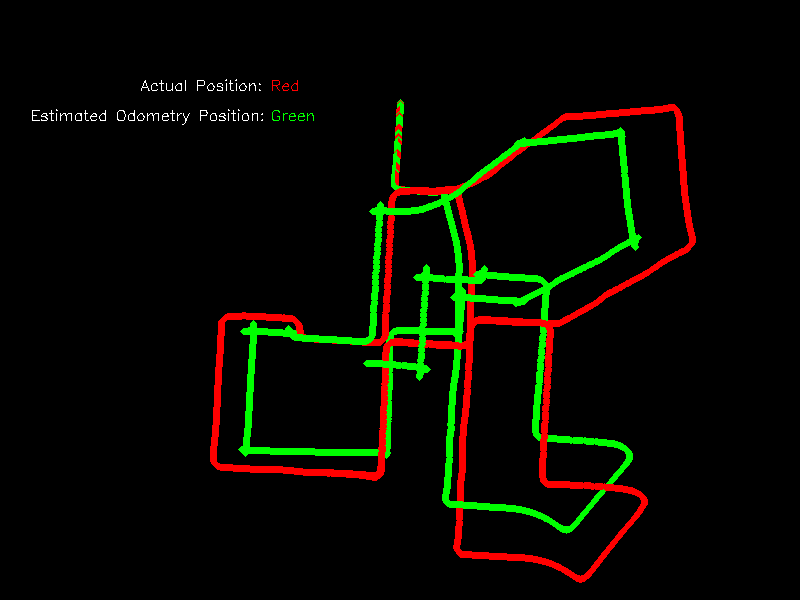
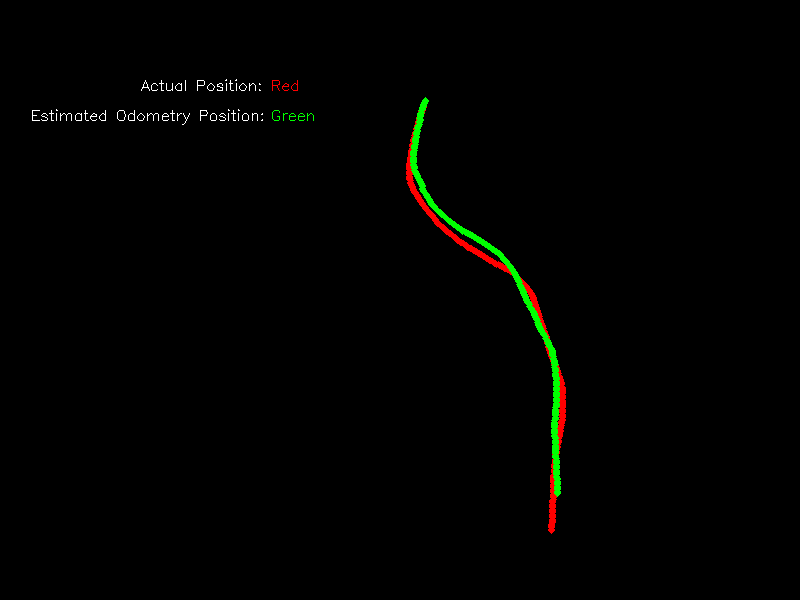
use map coordinates instead of start camera relative coordinates

diff --git a/run_odom.py b/run_odom.py
@@ -23,6 +23,23 @@ def main():
     pose_path = args.pose_path
     csv_path = args.csv_path
 
+    sim_pose_file = os.path.join(os.path.dirname(os.path.dirname(pose_path)), "camera_poses_sim.csv")
+    sim_poses = []
+
+    if os.path.isfile(sim_pose_file):
+        # load original sim poses for map coordinates
+        with open(sim_pose_file, "r", newline="", encoding="utf-8") as file:
+            reader = csv.reader(file)
+            next(reader, None)
+
+            for row in reader:
+                sim_poses.append([
+                    float(row[1]),
+                    float(row[2]),
+                    float(row[3]),
+                    float(row[4]),
+                ])
+
     first_image = cv.imread(os.path.join(img_path, "000000.png"), 0)
     image_height, image_width = first_image.shape
 
@@ -61,6 +78,9 @@ def main():
 
     previous_true_position = None
     previous_estimated_position = None
+    start_true_position = None
+    start_estimated_position = None
+    start_sim_pose = None
 
     while vo.hasNextFrame():
         frame = vo.current_frame
@@ -77,11 +97,44 @@ def main():
             mask = np.zeros_like(vo.current_frame)
 
         vo.process_frame()
-
-        print(vo.get_mono_coordinates())
+        frame_number = vo.id - 1
 
         mono_coord = vo.get_mono_coordinates()
         true_coord = vo.get_true_coordinates()
+        use_sim_coordinates = len(sim_poses) > frame_number
+
+        if use_sim_coordinates:
+            # convert camera-relative odometry back to map coordinates
+            if start_estimated_position is None:
+                start_estimated_position = mono_coord.copy()
+                start_sim_pose = sim_poses[frame_number]
+
+            relative_mono = mono_coord - start_estimated_position
+            yaw = np.radians(start_sim_pose[3])
+            right = np.array([-np.sin(yaw), np.cos(yaw)])
+            forward = np.array([np.cos(yaw), np.sin(yaw)])
+
+            estimated_xy = (
+                np.array([start_sim_pose[0], start_sim_pose[1]])
+                + right * relative_mono[0]
+                + forward * relative_mono[2]
+            )
+
+            mono_coord = np.array([
+                estimated_xy[0],
+                estimated_xy[1],
+                start_sim_pose[2] + relative_mono[1],
+            ])
+            true_coord = np.array(sim_poses[frame_number][:3])
+        else:
+            if start_true_position is None:
+                start_estimated_position = mono_coord.copy()
+                start_true_position = true_coord.copy()
+
+            mono_coord = mono_coord - start_estimated_position
+            true_coord = true_coord - start_true_position
+
+        print(mono_coord)
         mse_error = np.linalg.norm(mono_coord - true_coord)
 
         current_estimated_position = np.array([mono_coord[0], mono_coord[1], mono_coord[2]])
@@ -125,12 +178,17 @@ def main():
 
         # scale only for drawing
         draw_x = int(round(mono_coord[0] * visual_scale))
-        draw_z = int(round(mono_coord[2] * visual_scale))
         true_x = int(round(true_coord[0] * visual_scale))
-        true_z = int(round(true_coord[2] * visual_scale))
 
-        traj = cv.circle(traj, (true_x + 400, true_z + 100), 1, list((0, 0, 255)), 4)
-        traj = cv.circle(traj, (draw_x + 400, draw_z + 100), 1, list((0, 255, 0)), 4)
+        if use_sim_coordinates:
+            draw_y = int(round(mono_coord[1] * visual_scale))
+            true_y = int(round(true_coord[1] * visual_scale))
+        else:
+            draw_y = int(round(mono_coord[2] * visual_scale))
+            true_y = int(round(true_coord[2] * visual_scale))
+
+        traj = cv.circle(traj, (true_x + 400, true_y + 100), 1, list((0, 0, 255)), 4)
+        traj = cv.circle(traj, (draw_x + 400, draw_y + 100), 1, list((0, 255, 0)), 4)
 
         cv.putText(traj, 'Actual Position:', (140, 90), cv.FONT_HERSHEY_SIMPLEX, 0.5, (255, 255, 255), 1)
         cv.putText(traj, 'Red', (270, 90), cv.FONT_HERSHEY_SIMPLEX, 0.5, (0, 0, 255), 1)